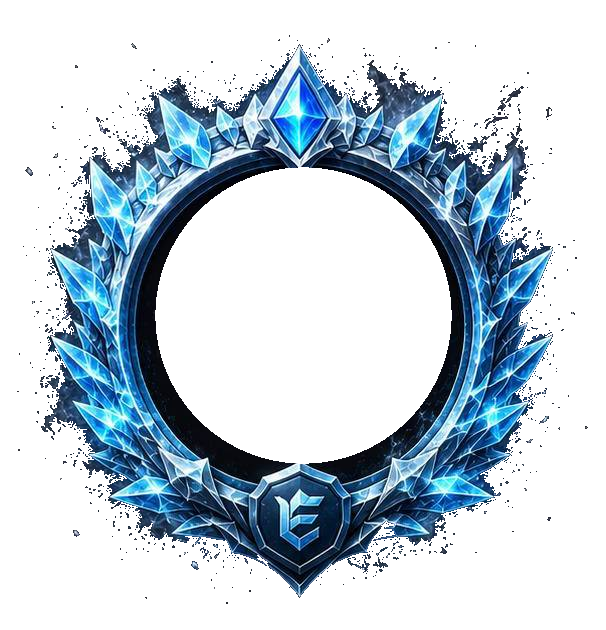
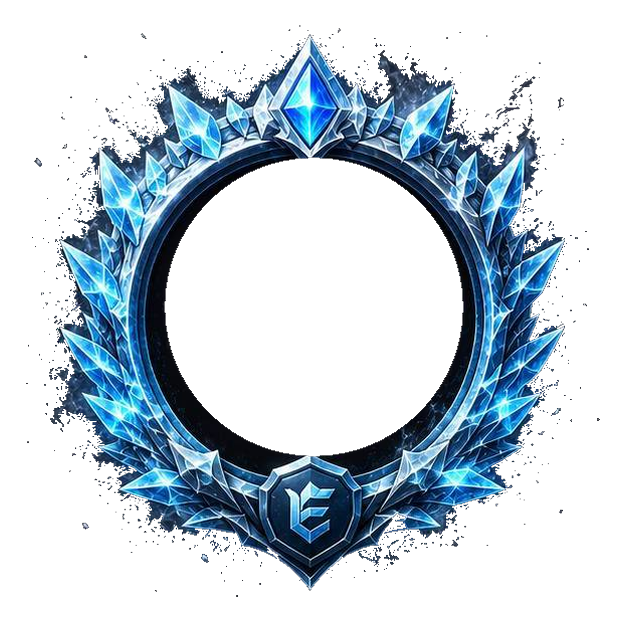
Fix: рамки аватара — выровнены по эталону fire.png
fire.png был единственной рамкой, у которой холст (642×642, квадрат) и
позиция кольца (bbox ~585×572, почти по центру) уже были правильными —
остальные (gold/ice/purple/egc) имели разные размеры холста (не квадрат
у трёх из них) и разное относительное положение/размер самого кольца,
из-за чего они выглядели по-разному при одинаковом CSS-размере.

Пересчитаны программно: у каждой рамки найден bbox кольца по альфа-каналу,
вырезан, отмасштабирован (с сохранением пропорций, без искажений) под
размер bbox fire.png, вставлен в новый холст 642×642 с тем же центром,
что и у fire. FRAME_SIZES в ProfilePage.jsx сведены к одному значению
для всех рамок — индивидуальные компенсации больше не нужны.

diff --git a/miniapp/src/pages/ProfilePage.jsx b/miniapp/src/pages/ProfilePage.jsx
@@ -24,7 +24,9 @@ const DEFAULT_RANK = { primary: '#9CA3AF', icon: '🥚' };
 
 const TIER_THRESHOLDS = [0, 1000, 5000, 15000, 35000, 75000, 150000, 300000];
 const FRAME_IMAGES = { fire: fireFrame, ice: iceFrame, purple: purpleFrame, gold: goldFrame, egc: egcFrame };
-const FRAME_SIZES = { fire: 130, ice: 128, purple: 126, gold: 134, egc: 130 };
+// Все рамки нормализованы к одному холсту (642×642, кольцо ~585×572 по центру) по образцу
+// fire.png — единый размер теперь корректен для всех, без индивидуальных компенсаций (2026-09-14).
+const FRAME_SIZES = { fire: 130, ice: 130, purple: 130, gold: 130, egc: 130 };
 
 // ── SVG illustrations ────────────────────────────────────────
 const SVG_EXC = (
